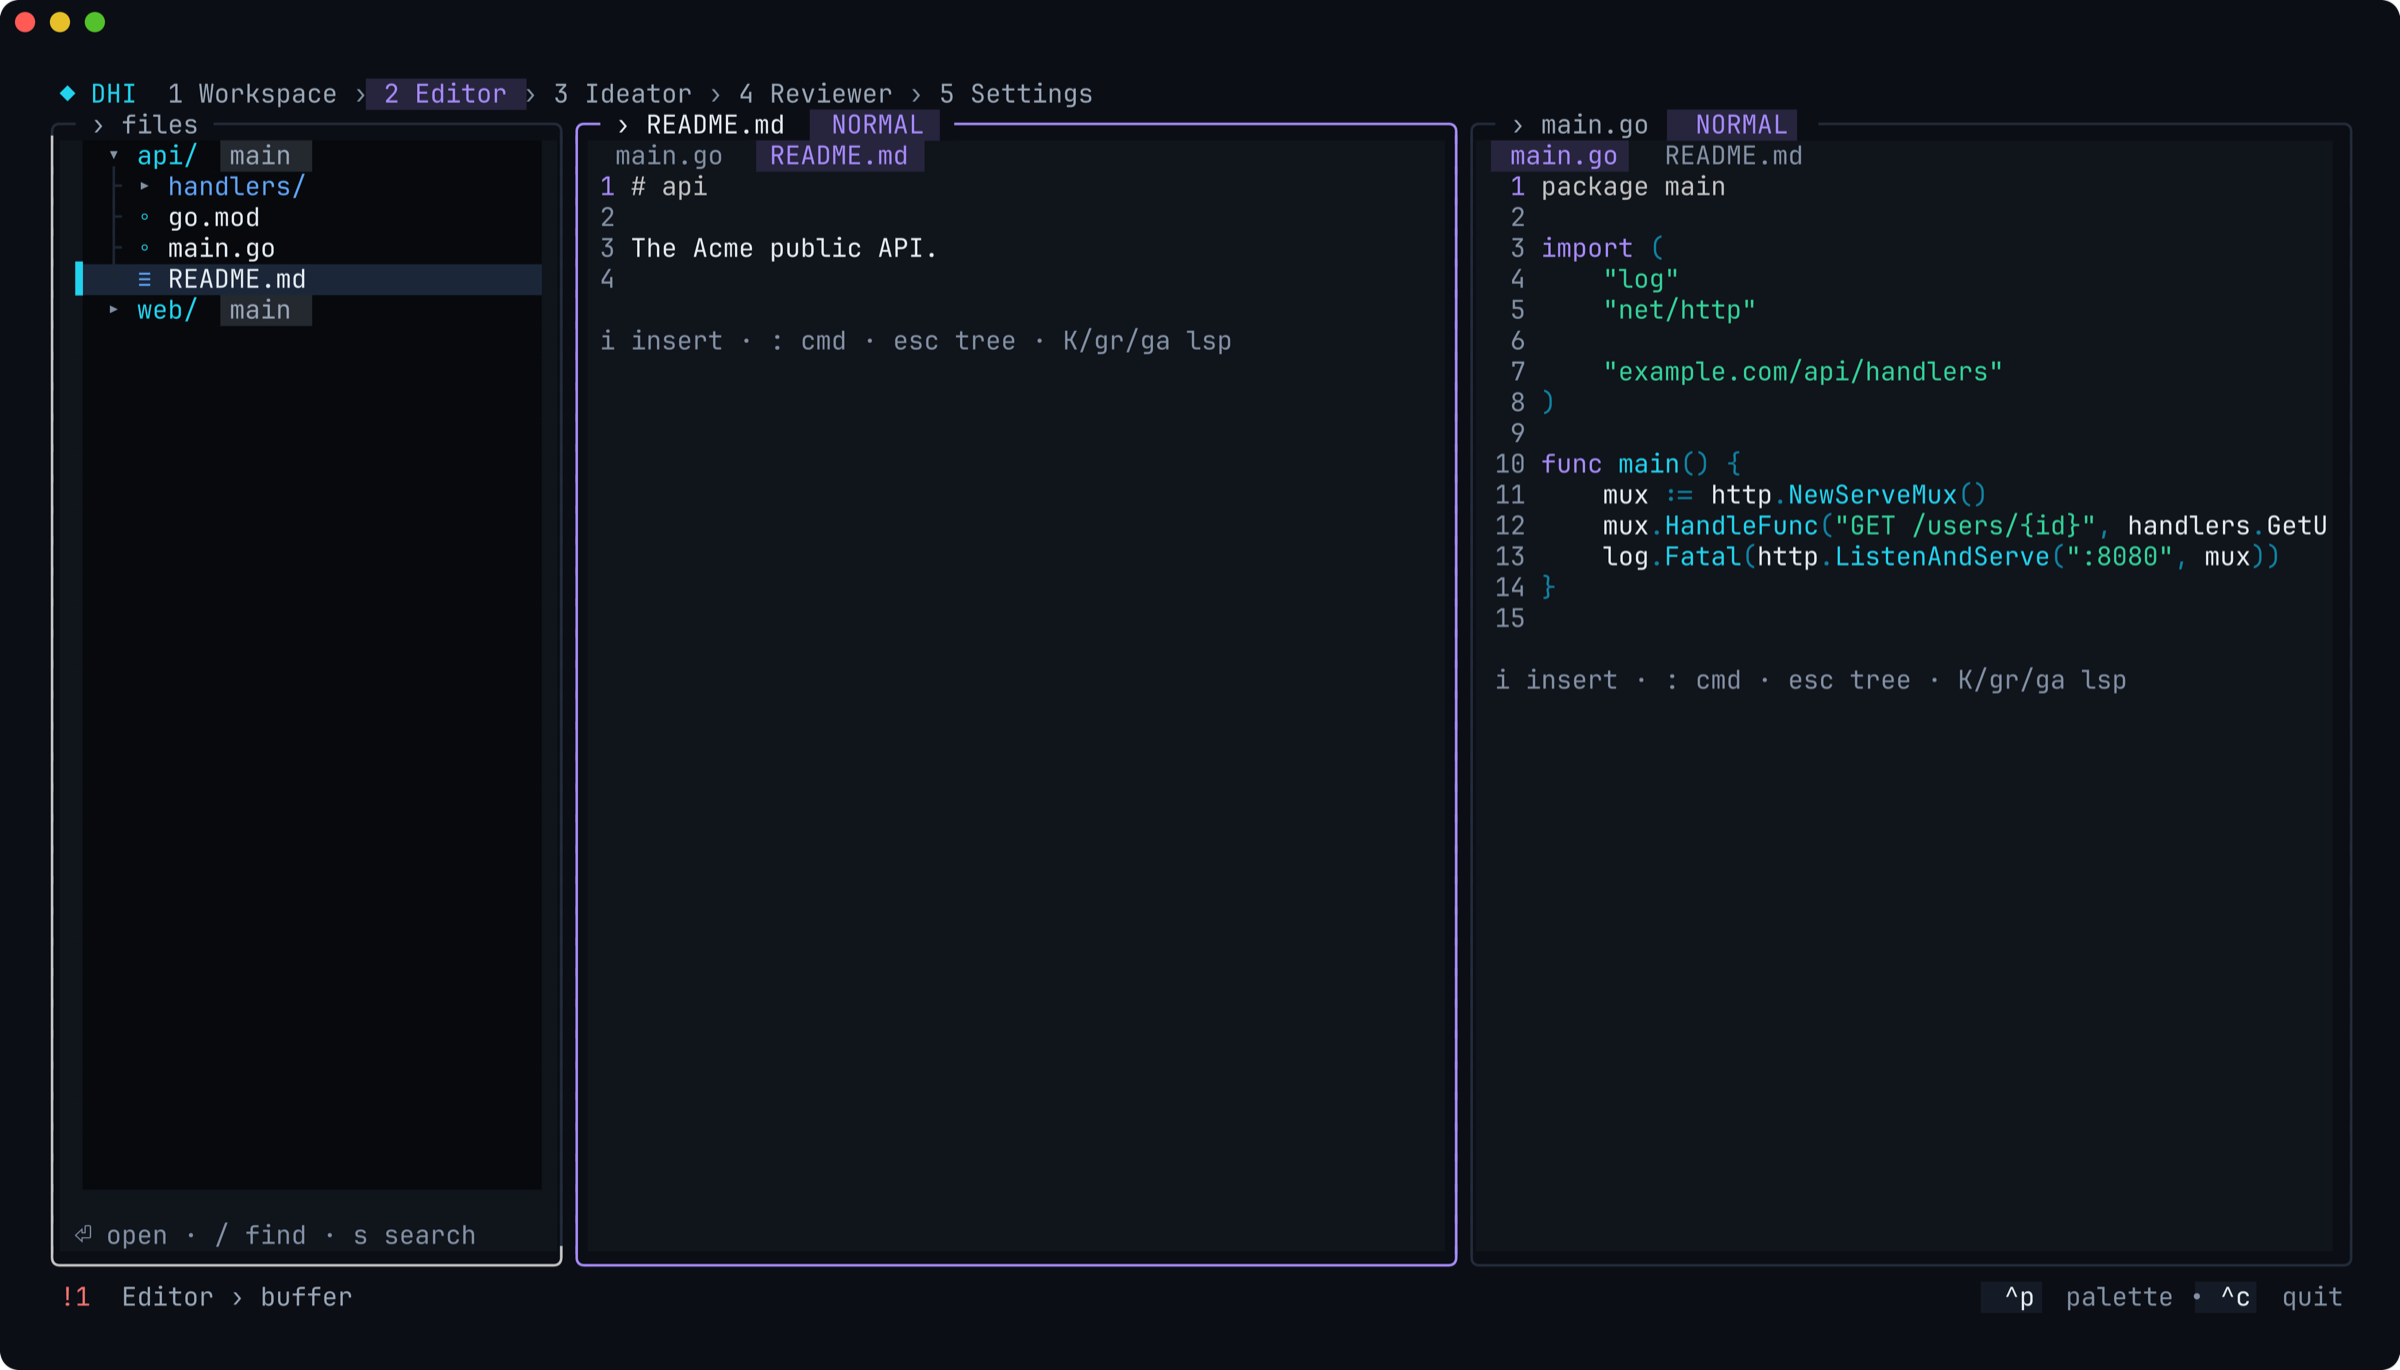
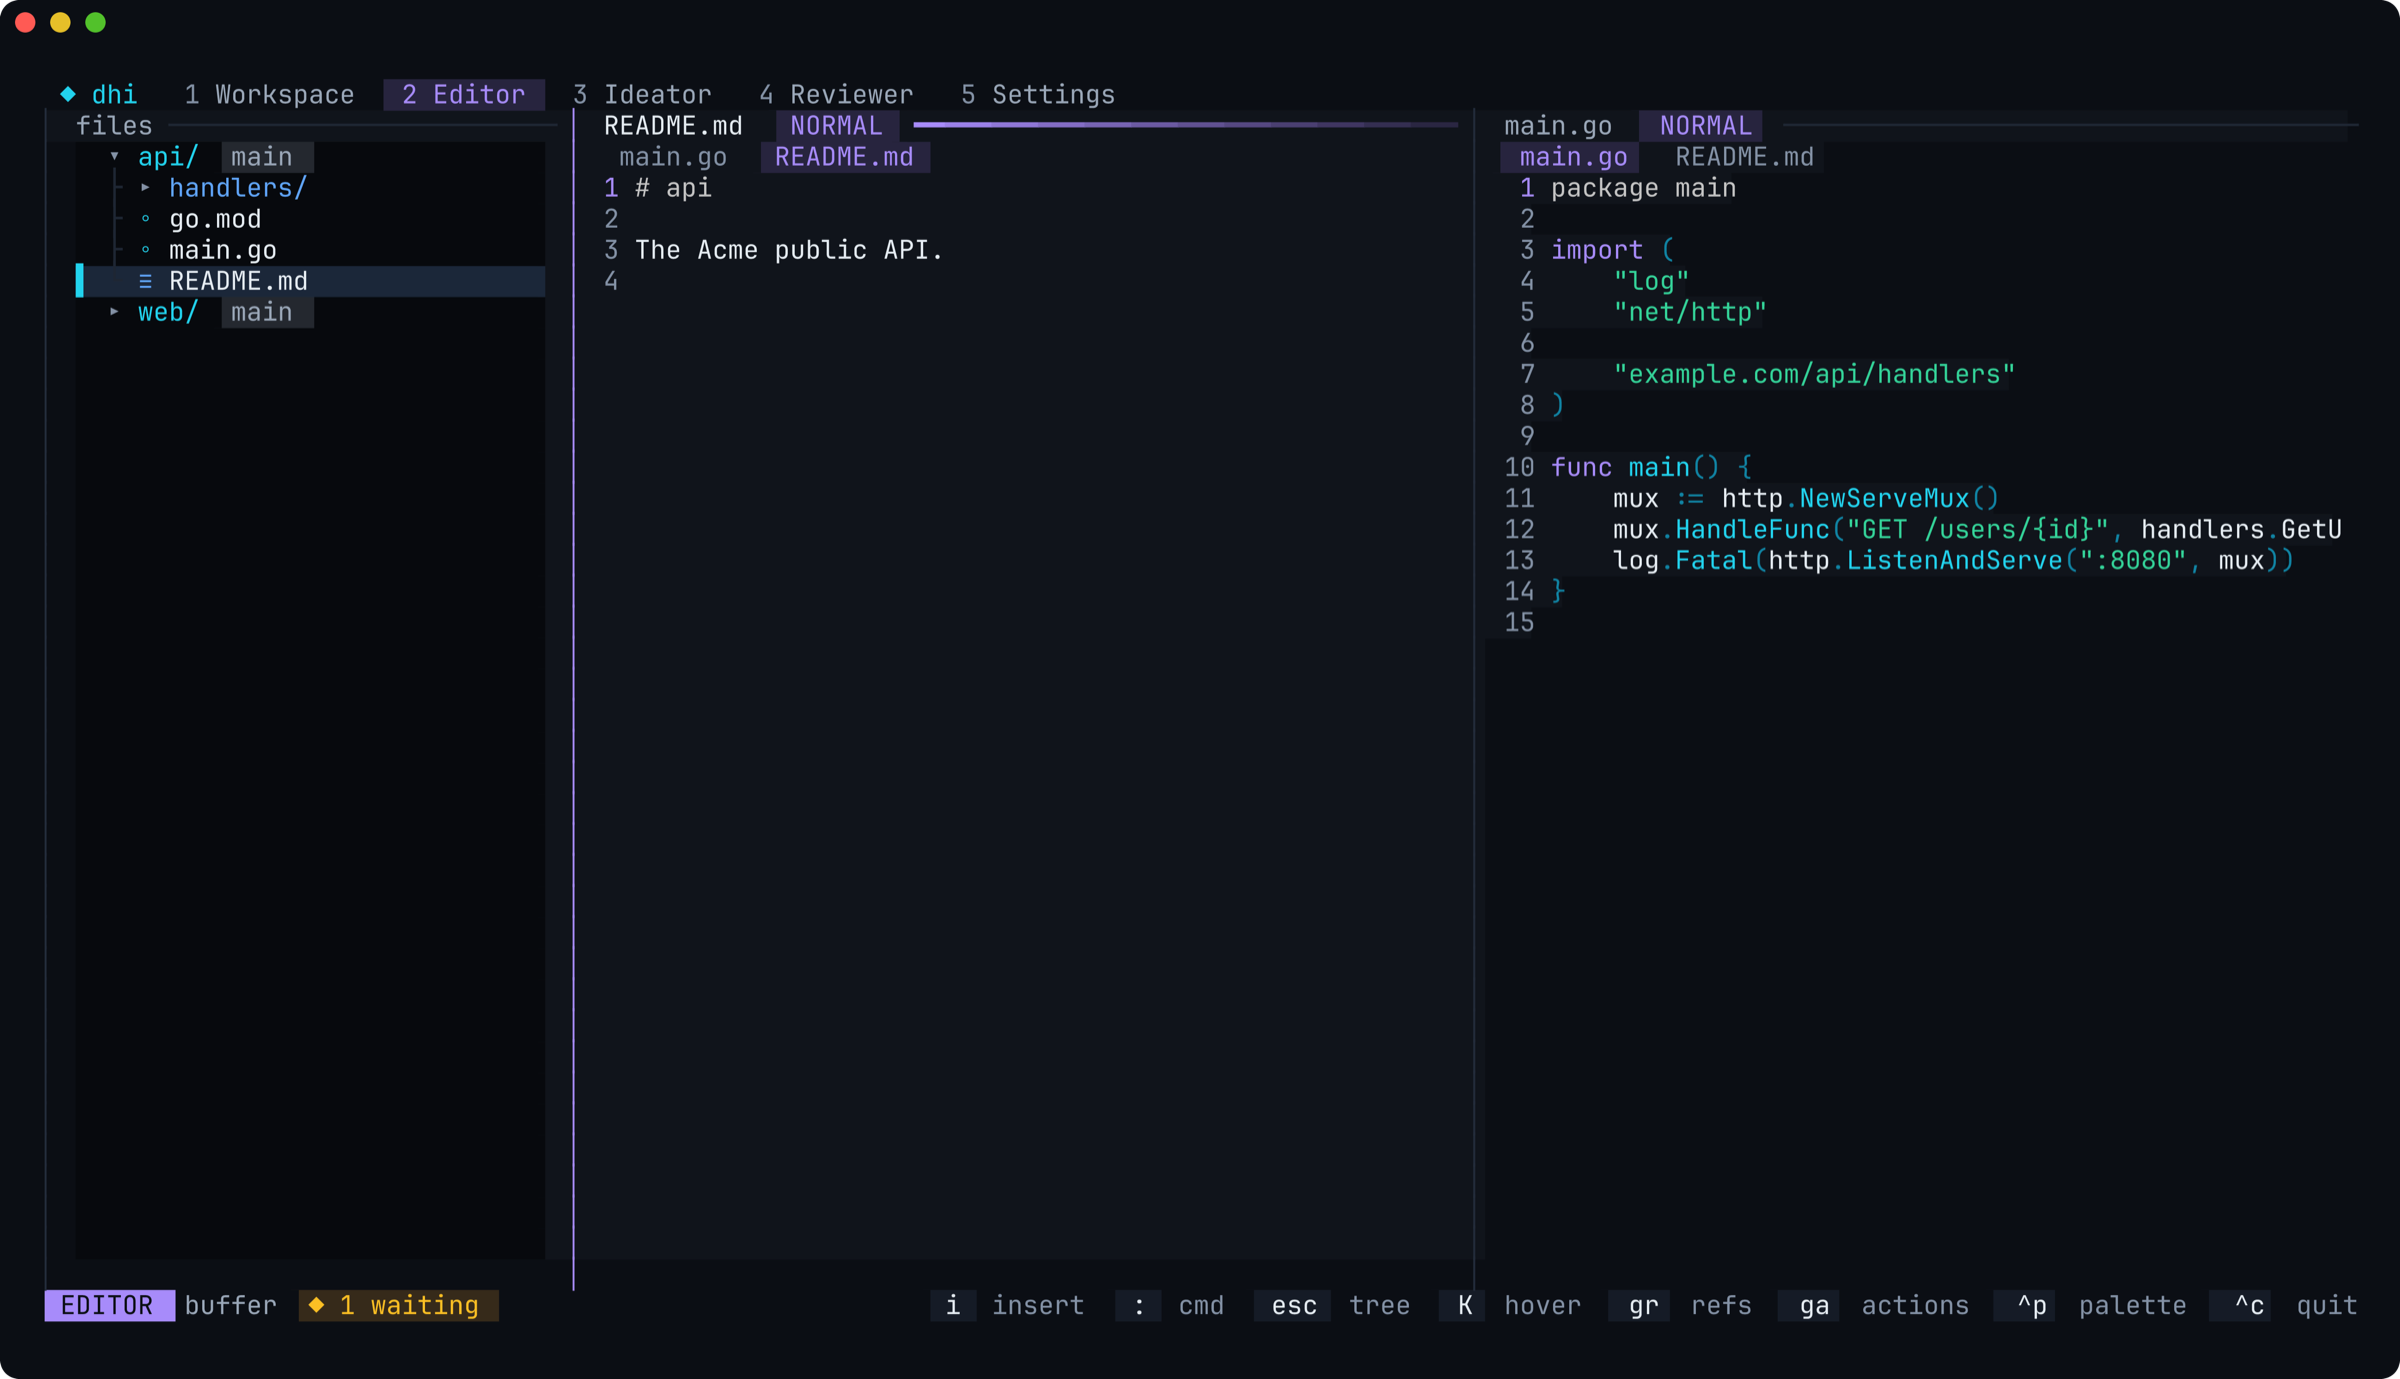
M33 P7: 256-color shade test, README screenshots, F-093/STATE/ROADMAP

diff --git a/internal/tui/theme/contrast_test.go b/internal/tui/theme/contrast_test.go
@@ -3,6 +3,8 @@ package theme
 import (
 	"image/color"
 	"testing"
+
+	"github.com/charmbracelet/colorprofile"
 )
 
 // TestTextTokensMeetWCAGAA pins readability: every text-bearing token must
@@ -147,6 +149,25 @@ func TestRailActiveIsLegible(t *testing.T) {
 				t.Errorf("%s/%s: rail active = %.2f:1, want >= 4.5", tk.Name, id, got)
 			}
 			Current = old
+		}
+	}
+}
+
+// TestShadeLadderSurvives256Colors: on 256-color terminals the deck's
+// zones are told apart by shade alone (ADR-0040), so the canvas, panel
+// and selection steps must stay distinct after downsampling. (Inset and
+// header are allowed to merge with a neighbour; they carry rules too.)
+func TestShadeLadderSurvives256Colors(t *testing.T) {
+	for _, tk := range []Tokens{Dark(), Light()} {
+		conv := func(c color.Color) color.Color { return colorprofile.ANSI256.Convert(c) }
+		pairs := [][2]color.Color{{tk.Bg, tk.BgSelection}, {tk.BgPanel, tk.BgSelection}, {tk.BgInset, tk.BgSelection}}
+		for i, p := range pairs {
+			a, b := conv(p[0]), conv(p[1])
+			ar, ag, ab, _ := a.RGBA()
+			br, bg, bb, _ := b.RGBA()
+			if ar == br && ag == bg && ab == bb {
+				t.Errorf("%s: pair %d collapses to one color in 256-color mode", tk.Name, i)
+			}
 		}
 	}
 }

diff --git a/docs/features/F-093-command-deck.md b/docs/features/F-093-command-deck.md
@@ -1,6 +1,6 @@
 # F-093 — Command deck: a bold UI/UX refresh
 
-Status: in progress (M33) · Decision record: ADR-0040 · Builds on: F-025, F-026, F-041, F-064
+Status: done (M33; deferred items listed below) · Decision record: ADR-0040 · Builds on: F-025, F-026, F-041, F-064
 
 ## Why
 
@@ -62,19 +62,24 @@ refresh across every surface, in the "command deck" direction. Colored captures 
 
 ## Acceptance
 
-- [ ] No hint is rendered twice on screen. No hint is clipped mid-word: whole hints drop and `? more`
+- [x] No hint is rendered twice on screen. No hint is clipped mid-word: whole hints drop and `? more`
       appears.
-- [ ] No `(s)` in any rendered TUI string. No `0` count in any rail.
-- [ ] Every empty pane uses `kit.EmptyState`/`EmptyInline` and wraps at 80×24.
-- [ ] At most one framed level on screen. Boxes only for dialogs, palette, help and gates.
-- [ ] Time and meta columns stay aligned when a row wraps.
-- [ ] New tokens and glyphs work in Dark, Light and High contrast. `contrast_test` passes. Glyphs are
+- [x] No `(s)` in any rendered TUI string. No `0` count in any rail.
+- [x] Every empty pane uses `kit.EmptyState`/`EmptyInline` and wraps at 80×24.
+- [x] At most one framed level on screen. Boxes only for dialogs, palette, help and gates.
+- [x] Time and meta columns stay aligned when a row wraps.
+- [x] New tokens and glyphs work in Dark, Light and High contrast. `contrast_test` passes. Glyphs are
       font-safe (no `◐`, `⎇`).
 - [ ] Every animation is gated on `theme.Motion` and has a reduced-motion golden.
-- [ ] `AssertBgIntegrity` passes on new primitives and surfaces.
-- [ ] The F-041 typing-safety tests stay green.
-- [ ] Nothing new in config files: any knob is a Settings row.
-- [ ] Colored after-captures (3 themes, 80×24 and 120×36) are reviewed against the baseline.
+- [x] `AssertBgIntegrity` passes on new primitives and surfaces.
+- [x] The F-041 typing-safety tests stay green.
+- [x] Nothing new in config files: any knob is a Settings row.
+- [x] Colored after-captures (3 themes, 80×24 and 120×36) are reviewed against the baseline.
+
+Not done: no new animations shipped, so the reduced-motion item does not apply yet. The spinner
+pulse already has its reduced-motion path. Deferred: the ship toast/celebration, the wizard team
+role grid, boot-gate per-tool progress, settings rail group headers, and inbox context-pane action
+keycaps.
 
 ## Tooling
 

diff --git a/STATE.md b/STATE.md
@@ -1,5 +1,29 @@
 # STATE — current position
 
+### Session 57 (M33: command deck UI refresh, branch `m33-ux`)
+
+- User asked for a bold UX/UI pass; chose "bold refresh", all surfaces, the "command deck"
+  direction. Plan `~/.claude/plans/unified-jingling-treasure.md`; F-093, ADR-0040. Branch `m33-ux`
+  from `main` (M32 was already there), committed locally, NOT pushed, no PR.
+- Done: `kit.Panel` renders deck panes by default (`Boxed` keeps frames for boot/repair gates and the
+  wizard card) with identical geometry, so hit origins are unchanged. Bodies grew one row (footers
+  gone: `h-3` → `h-2` in each mainPane). `surfaces.HintProvider` (`Hints() (flash, hints)`) feeds
+  `kit.StatusLine` (ModeBlock, Flash, Hints, Globals, More, `KeyAt` for clicks); gates show SETUP +
+  their own hints (`gatechain.Chain.Hints`). Editor `Hints()` switches by focus zone like
+  StatusContext. `kit.Composer`, `kit.EmptyInline`, `kit.Count`; `theme.DeckRule/DeckDivider/
+  ModeBlock/ModeFill/OnFill/SurfaceText/RailActive`; contrast + 256-color tests.
+- Screenshots: `scripts/screenshots.sh` now warms up (accepts repairs, skips setup) so shots show the
+  app; `DHI_SHOT_THEME/SIZE/OUT`, `DHI_SHOT_FIRSTRUN=1` + `gate|wizard|team`. README assets
+  regenerated.
+- Gotchas:
+  - Tests that looked for hints/flash in `View()` now use `fullView(m)` (workspace `clicks_test.go`,
+    settings `settings_test.go`): View + Hints.
+  - Spinner frames are `· ◦ • • ◦ ·` (braille rendered as tofu in the capture font); `GlyphBusy` is
+    `●` and must never be a frame (bootstrap reduced-motion test).
+  - Light theme: BorderFocused is too pale for text, so use `theme.SurfaceText()` for hue-colored
+    text and `ModeFill()` for solid fills.
+- Deferred (see ROADMAP M33): ship toast, wizard role grid, boot-gate progress, settings rail groups.
+
 ### Session 56 (M32: agents that can ask, branch `m32`)
 
 - Plan: `~/.claude/plans/for-tasks-that-needs-nested-kernighan.md` (7 phases, one commit each);

diff --git a/ROADMAP.md b/ROADMAP.md
@@ -1074,3 +1074,14 @@ Plan: `~/.claude/plans/for-tasks-that-needs-nested-kernighan.md`. Branch `m32` (
 - [x] Live: skill suggestion from a signed registry; global layer across two workspaces; codex; Linux (Docker, bwrap) — round 2 in F-092
 - [x] Live: opencode/cursor/copilot/antigravity under the sandbox (round 3 in F-092)
 
+
+## M33 — Command deck: a bold UI/UX refresh (session 57)
+
+Plan: `~/.claude/plans/unified-jingling-treasure.md`. Branch `m33-ux` (from `main`), one commit per phase. F-093, ADR-0040.
+
+- [x] P0 Spec, ADR, themed/sized screenshot variants (+ warmup, first-run shots), real-workspace shell golden
+- [x] P1–P2 Deck panes (gradient header rule, no boxes), pill tabs, status row owns every hint (HintProvider, whole-hint drop, `? more`, clickable), mode block + attention pill
+- [x] P3 Board cards wrap titles, aligned inbox, shared composer, `kit.Count` plurals, no zero counts, `EmptyInline`
+- [x] P4 First run: wizard card + connected stepper, font-safe pulse, aligned form fields, SETUP status row for gates, splash keycaps
+- [x] P5–P6 Rail/help in the view's hue (AA-tested), 256-color shade ladder test
+- [ ] Deferred: ship toast/celebration, wizard team role grid, boot-gate per-tool progress, settings rail group headers, inbox context-pane action keycaps
